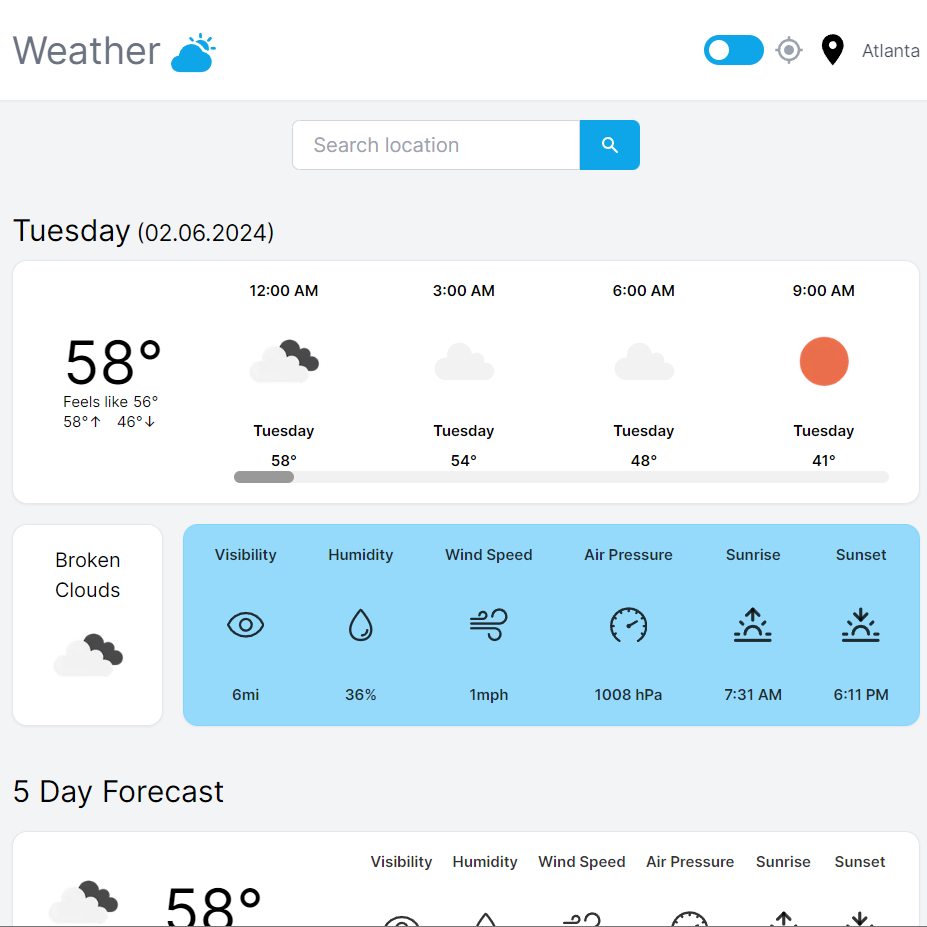
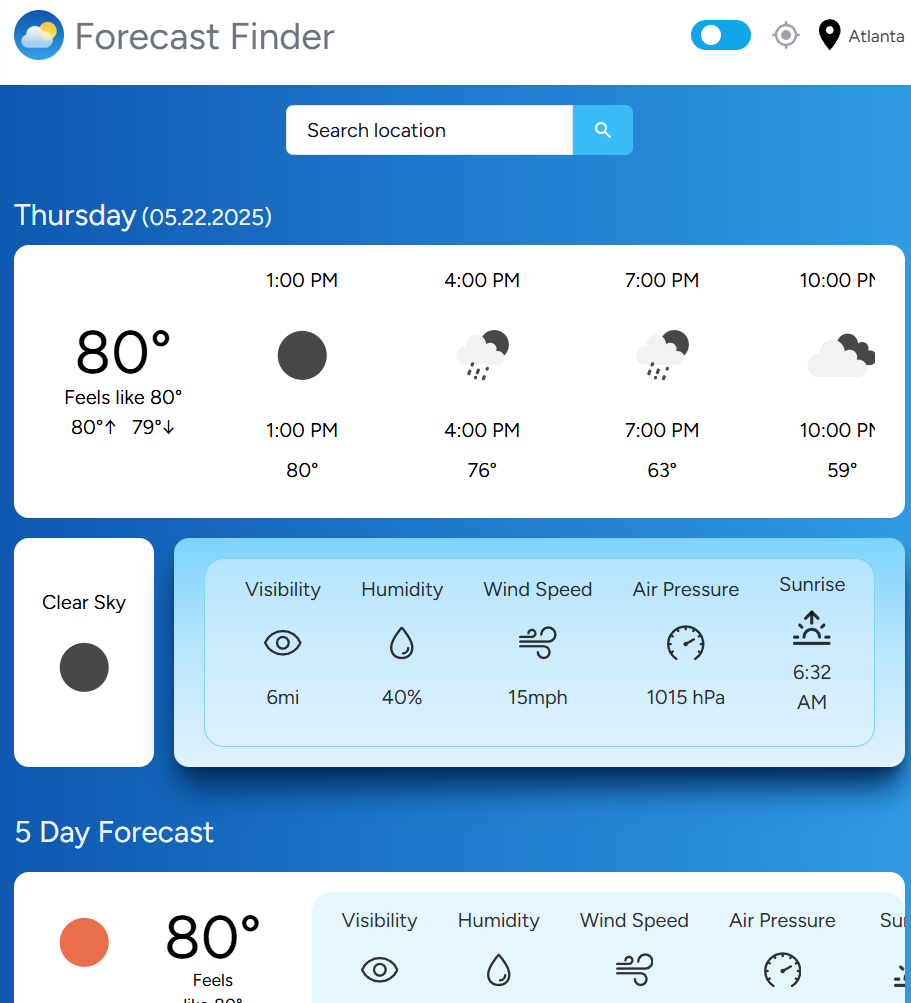
Updating README imgs + text

diff --git a/README.md b/README.md
@@ -5,7 +5,7 @@ Live Site: https://weather-app-murex-gamma.vercel.app/
 ![main-app](readme-imgs/main-app-ezgif.com-optimize.gif)
 
 ## Description
-<p>A Next.js app that displays weather data based on the selected location. Built with <strong>Next.js</strong>, <strong>React</strong>, <strong>TypeScript</strong>, <strong>React hooks</strong>, <strong>Tailwind CSS</strong>, <strong>Axios</strong>, <strong>Jotai</strong>, <strong>Date-fns</strong>, <strong>Clsx</strong>, <strong>Tanstack/react-query</strong>, <strong>OpenWeatherMap API</strong>, and deployed on <strong>Vercel</strong></p>
+<p>A Next.js app that displays weather data based on the selected location. Built with <strong>Next.js</strong>, <strong>React</strong>, <strong>TypeScript</strong>, <strong>React hooks</strong>, <strong>Tailwind CSS</strong>, <strong>Axios</strong>, <strong>Jotai</strong>, <strong>Date-fns</strong>, <strong>Clsx</strong>, <strong>Tanstack/react-query</strong>, <strong>tz-lookup</strong>, <strong>OpenWeatherMap API</strong>, and deployed on <strong>Vercel</strong></p>
 <p>I also added a dark mode toggle feature with custom stylings for dark mode vs light mode</p>
 
 
@@ -25,11 +25,23 @@ Live Site: https://weather-app-murex-gamma.vercel.app/
 <li>Skeleton app loads when requesting new data
 </li>
 <br>
-<img src='readme-imgs/location-toggle.gif' width='777'>
+<img src='readme-imgs/skeleton-view.gif' width='777'>
+<li>Times shown update based on selected location's timezone
+</li>
+<br>
+<img src='readme-imgs/location-toggle-search.gif' width='777'>
 <li>Dark mode vs light mode toggle option
 </li>
 <br>
 <img src='readme-imgs/dark-mode-ezgif.com-optimize.gif' width='777'>
+<li>Scale on hover for 5 day forecast
+</li>
+<br>
+<img src='readme-imgs/hover-scale.gif' width='777'>
+<li>Scrollbars appear on hover
+</li>
+<br>
+<img src='readme-imgs/scrollbar-hover.gif' width='777'>
 <li>Error message displays if location is not found
 </li>
 <br>
